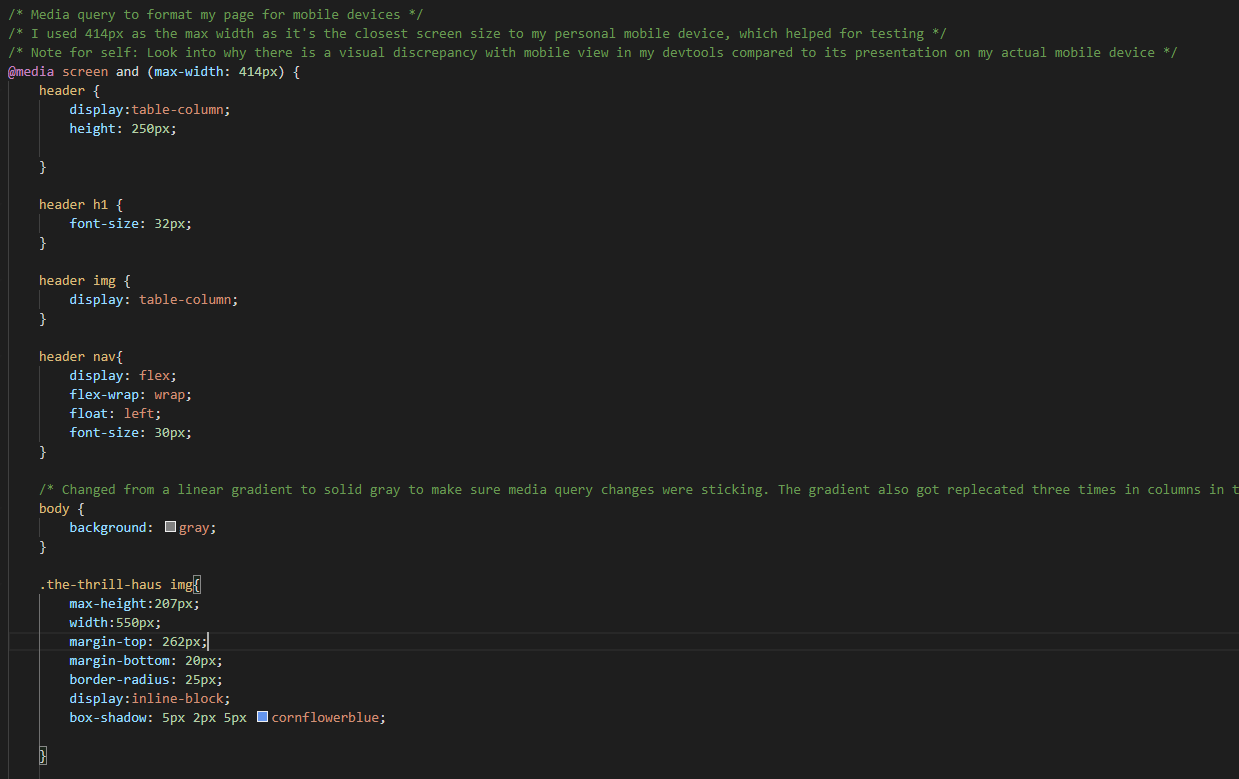
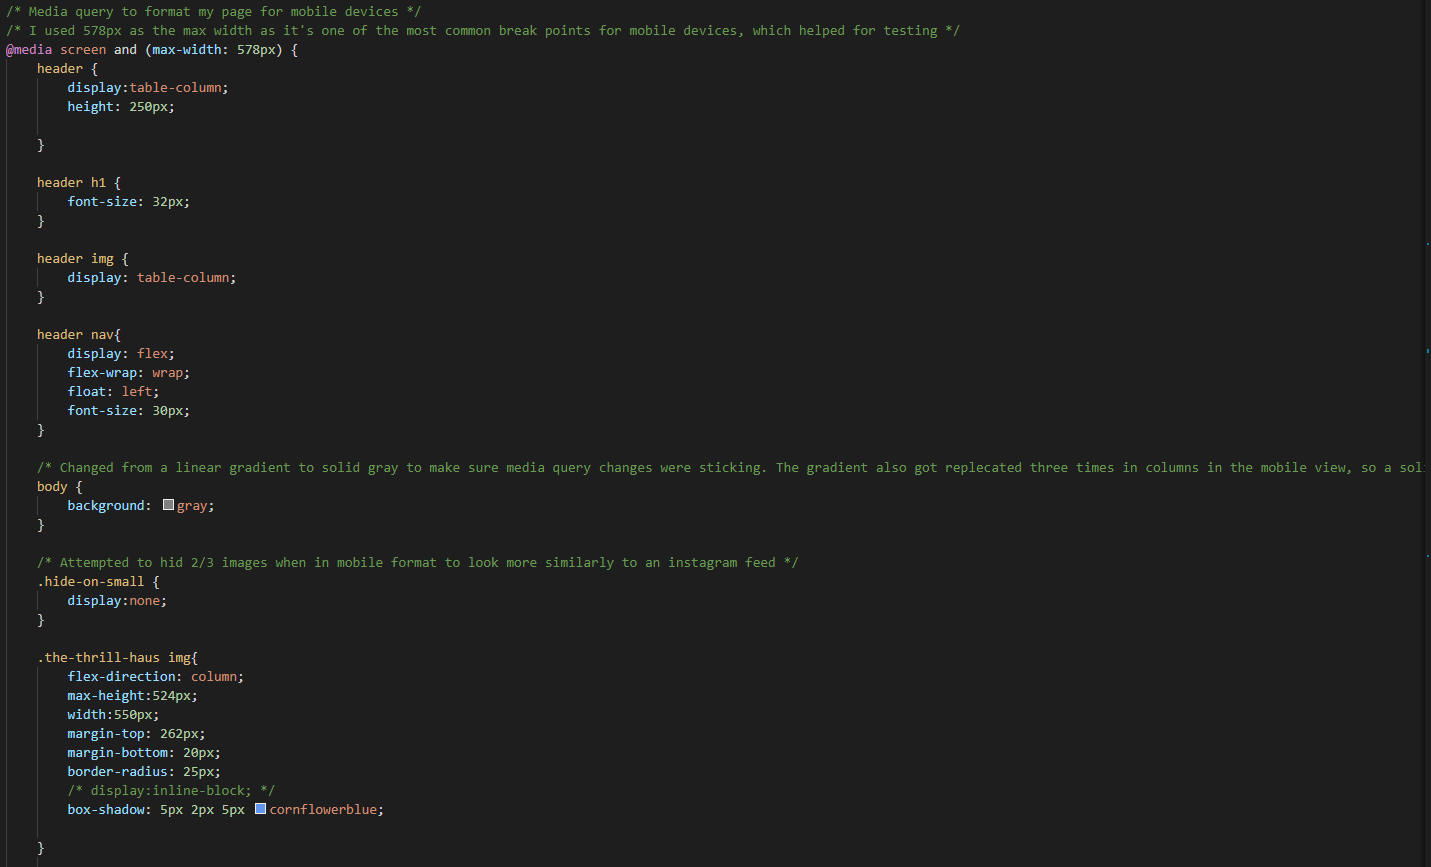
Did final updates to my css and readme.md file to showcase most recent adjustments

Changed region(s): [[0.0, 0.0, 1.0, 0.7086], [0.0307, 0.7394, 0.3067, 0.9551], [0.0, 0.9551, 0.0307, 0.9859]]

diff --git a/assets/css/style.css b/assets/css/style.css
@@ -154,7 +154,7 @@ p {
 }
 
 .my-work-images img{
-    height:650px;
+    height:580px;
     margin-top: 0px;
     margin-bottom: 20px;
     border-radius: 25px;
@@ -207,8 +207,8 @@ p {
 .my-work a img:hover {
     height: 225px;
     border-radius: 25px;
-    /* border: 5px solid mintcream; */
-    box-shadow: inset 0px 0px 8px var(--cornflowerblue), 0 0 15px var(--cornflowerblue);
+    border: 5px solid cornflowerblue;
+    /* box-shadow: inset 0px 0px 8px var(--cornflowerblue), 0 0 15px var(--cornflowerblue); Attempted to add a glow effect to my work image examples but was unable to get it to function properly, will revisit later. */
 }
 
 .contact-me-images {
@@ -310,8 +310,7 @@ footer nav ul li {
 }
 
 /* Media query to format my page for mobile devices */
-/* I used 414px as the max width as it's the closest screen size to my personal mobile device, which helped for testing */
-/* Note for self: Look into why there is a visual discrepancy with mobile view in my devtools compared to its presentation on my actual mobile device */
+/* I used 578px as the max width as it's one of the most common break points for mobile devices, which helped for testing */
 @media screen and (max-width: 578px) {
     header {
         display:table-column;
@@ -336,7 +335,7 @@ footer nav ul li {
 
     /* Changed from a linear gradient to solid gray to make sure media query changes were sticking. The gradient also got replecated three times in columns in the mobile view, so a solid gray worked as a nice correction for this. */
     body {
-        background: gray;
+        background-image: linear-gradient(90deg, black, gray, mintcream);
     }
 
     /* Attempted to hid 2/3 images when in mobile format to look more similarly to an instagram feed */

diff --git a/README.md b/README.md
@@ -17,7 +17,7 @@ I WANT to view a potential employee's deployed portfolio of work samples
 
 SO THAT I can review samples of their work and assess whether they're a good candidate for an open position
 
-![DeployedPortfolioFromWebBrowser](./assets/images/portfolio-web-browser.png "Deployed Page from Web Browser")
+![DeployedPortfolioFromWebBrowser](./assets/images/portfolio-web-browser-view.png "Deployed Page from Web Browser")
 
 I began this process by creating an index.html sheet, and an assets folder holding my style.css sheet and referenced images.
 
@@ -63,11 +63,14 @@ The next step was to format the site to be usable on mobile devices. I started t
 
 This step proved to be the most challenging of them all as I found discrepancies between the mobile view in my devtools and it's actual appearance on my mobile device. 
 
+To correct the visual discrepancy, I found that a media query break point of 578px as it was the most common break point for mobile devices. This allowed me to view the web page from my phone and my dev tools in the same way.
+
+With my mobile view, instead of decreasing the size of my image to fit all of them to the smaller screen, I took an approach to make the design comparable to an Instagram feed with one large photo between each section of text.
+
 Website display on my mobile device (iPhone SE)
 
-![DeployedPortfolioOnMobileTop](./assets/images/portfolio-mobile-top.jpg "Top of mobile view")
+![DeployedPortfolioOnMobileTop](./assets/images/portfolio-mobile-view.png "Full Mobile View")
 
-![DeployedPortfolioOnMobileBottom](./assets/images/portfolio-mobile-bottom.jpg "Bottom of mobile view")
 
 
 
